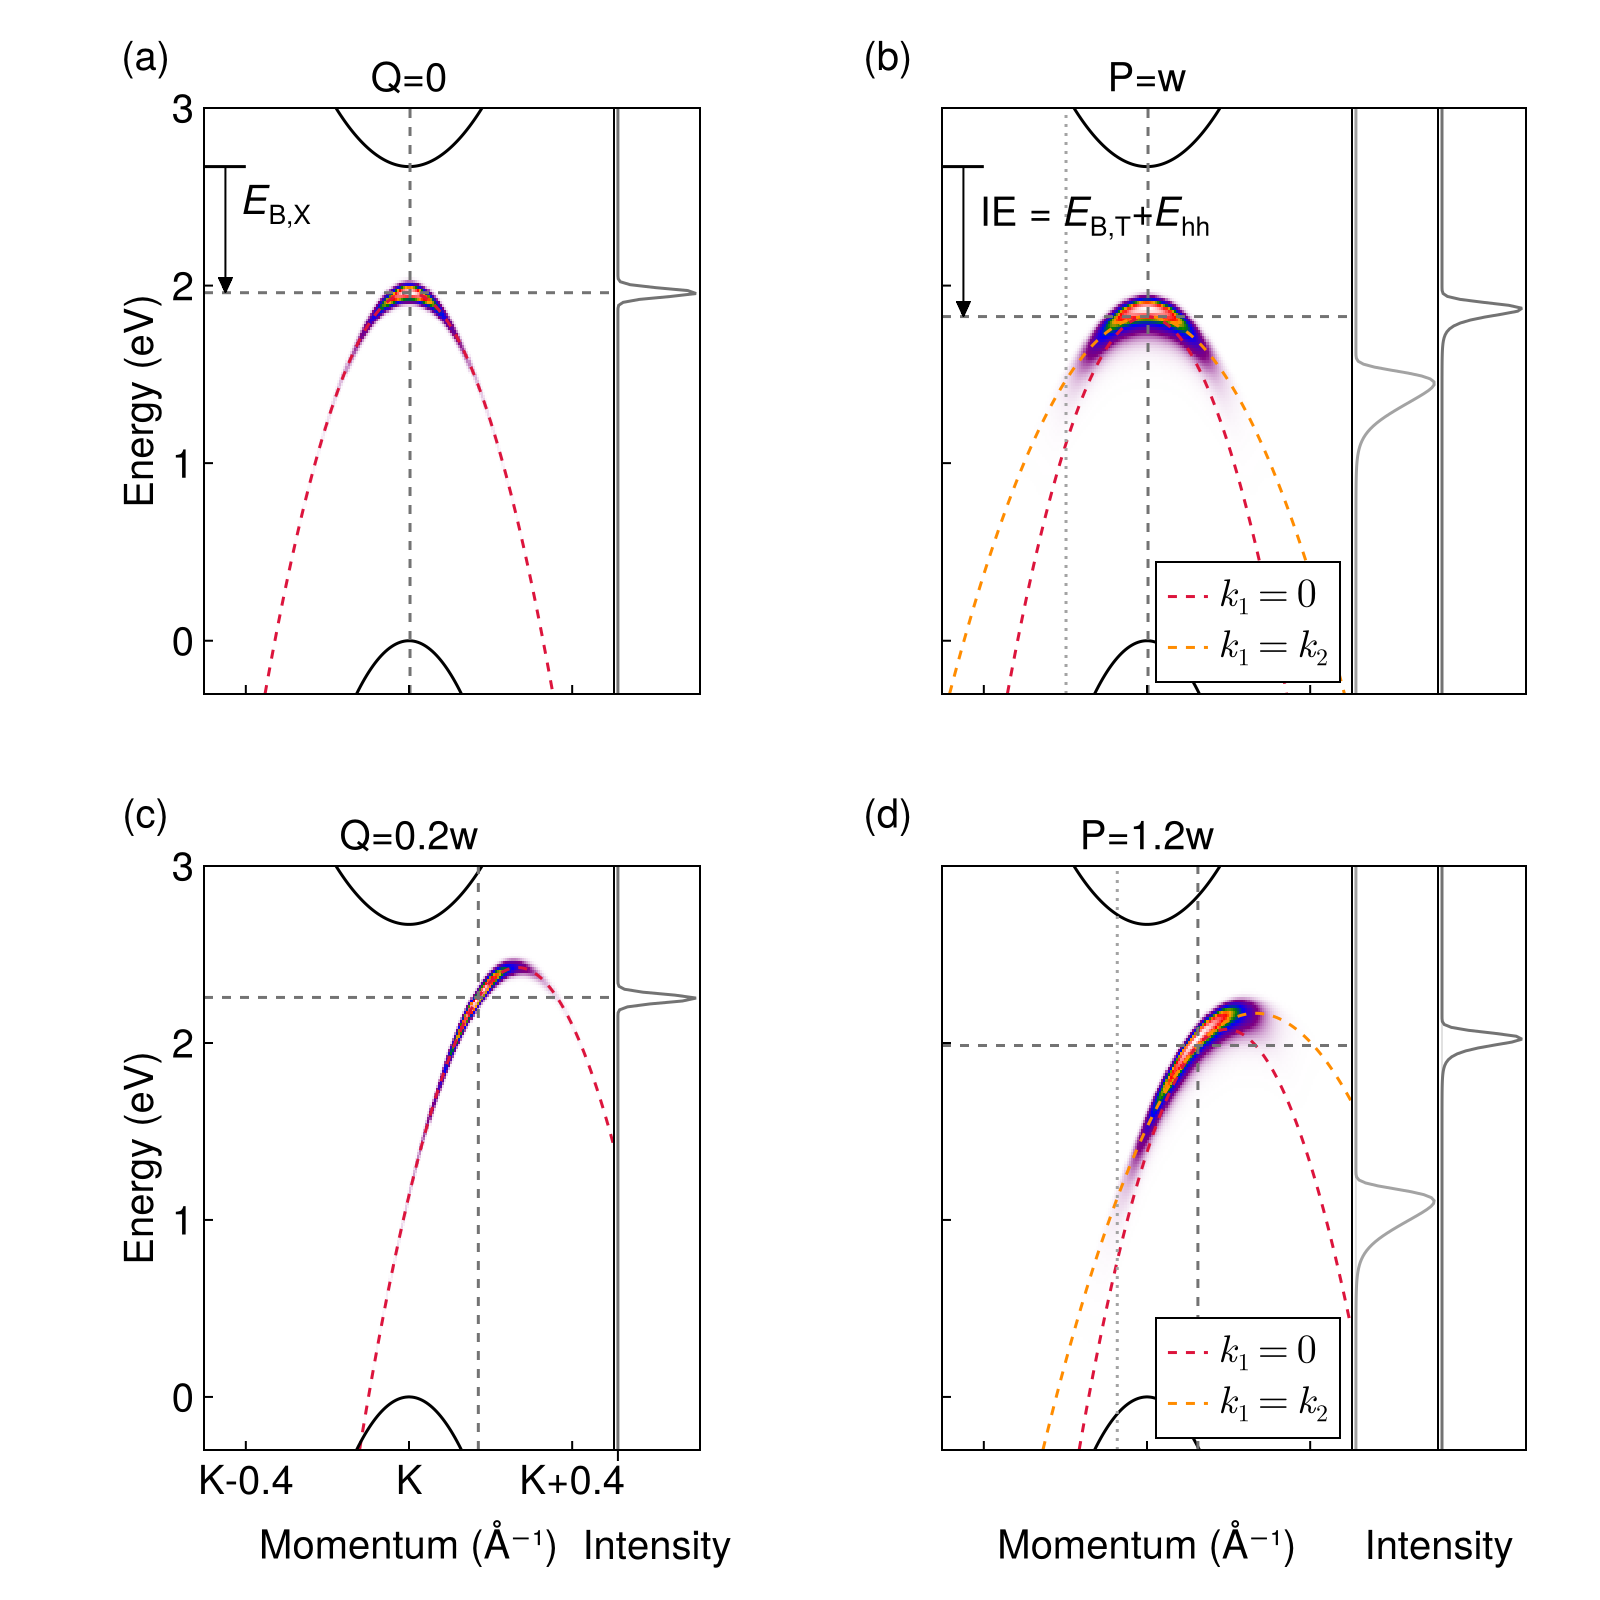
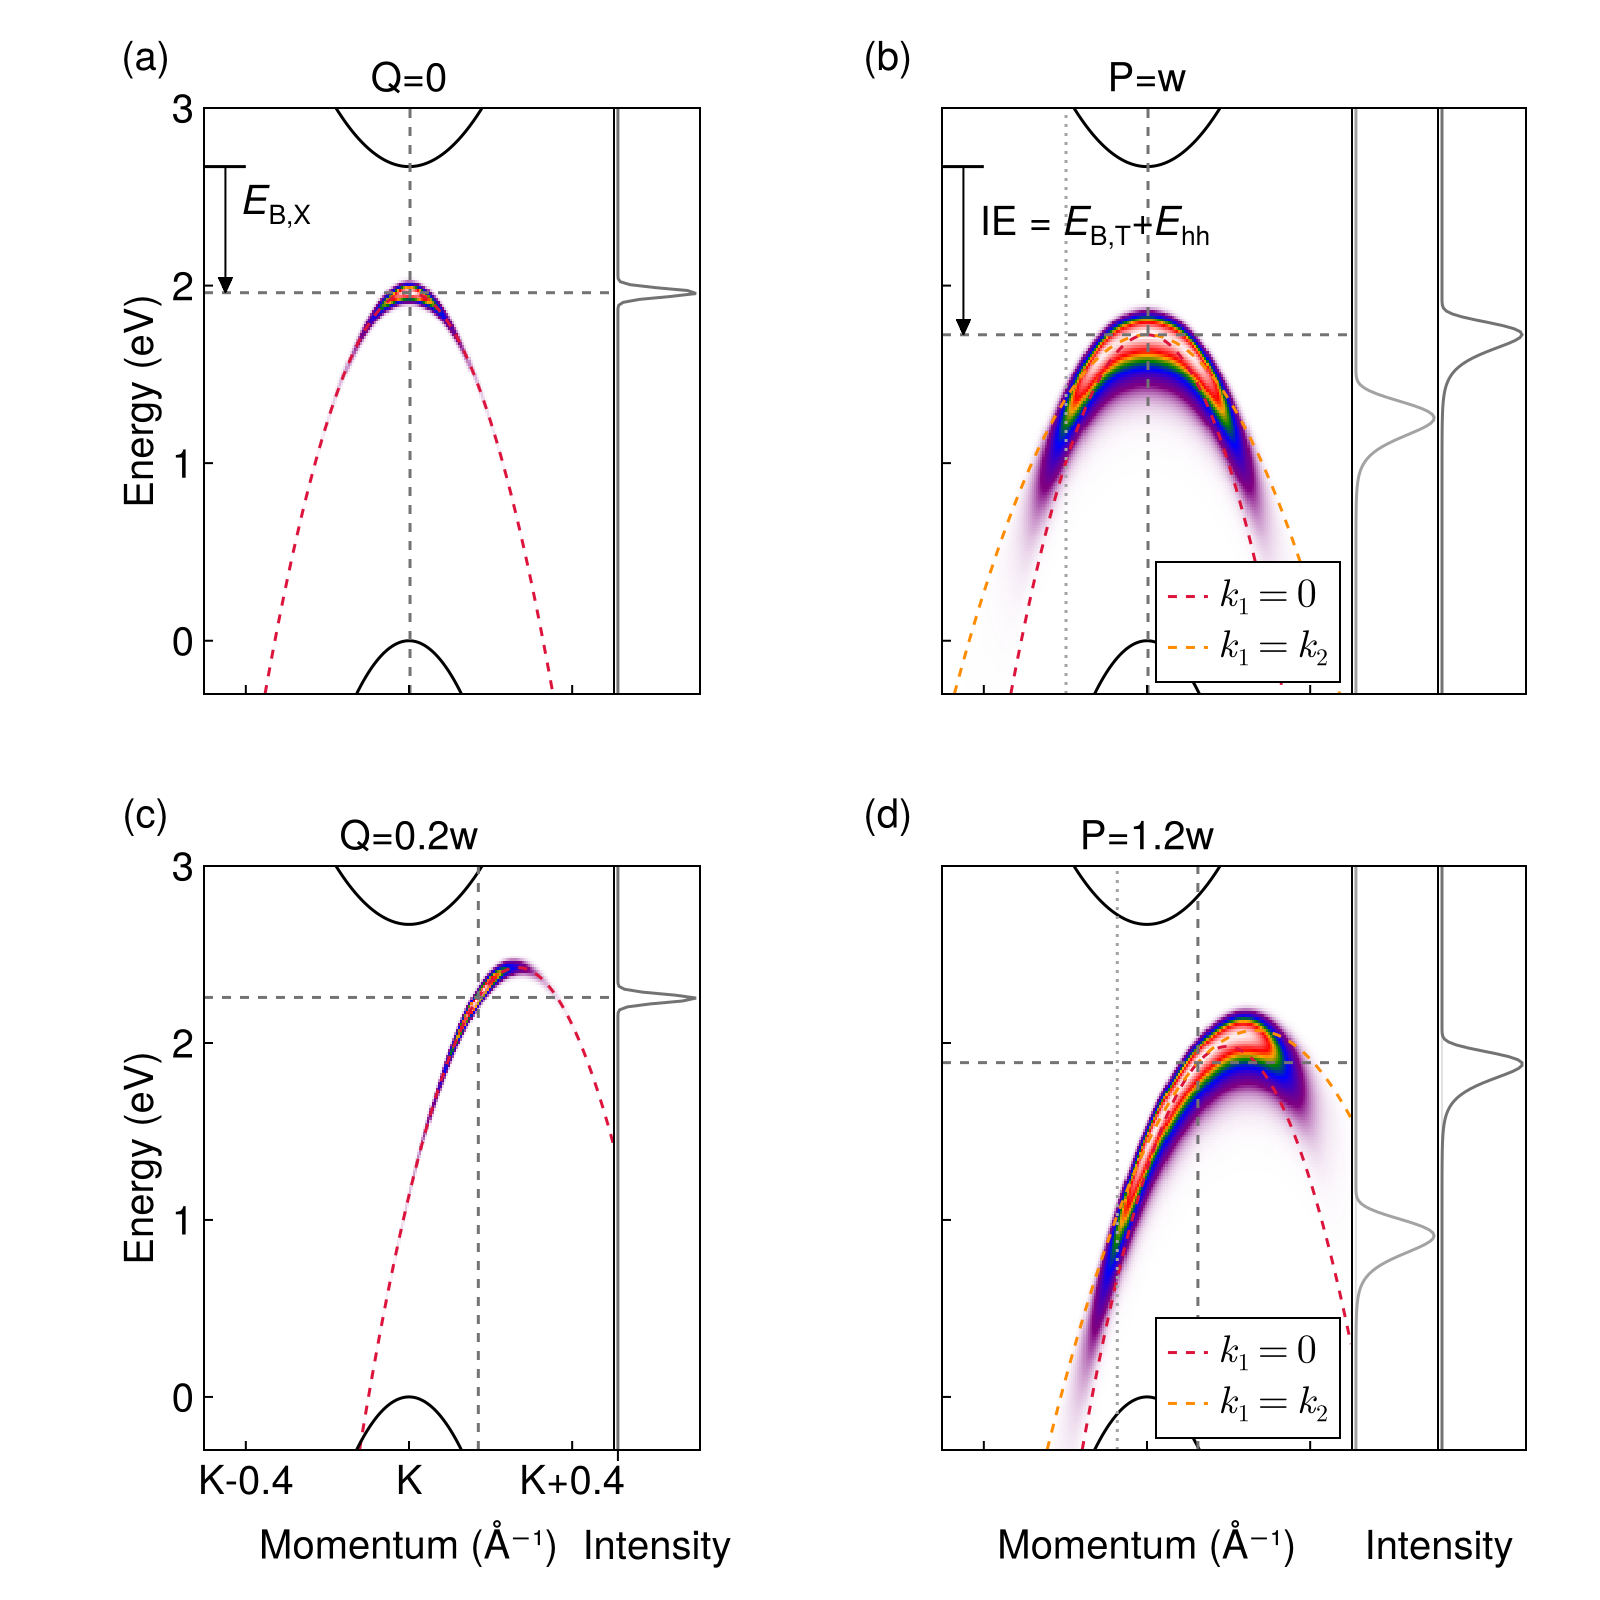
update data

diff --git a/simplified/ehh-no-momentum-display.md b/simplified/ehh-no-momentum-display.md
@@ -35,3 +35,8 @@ which is theoretically wrong although it doesn't make things qualitatively wrong
 Run [`ehh-display-very-compact-2-residue-energy-ionization.jl`](ehh-display-very-compact-2-residue-energy-ionization.jl) to get 
 
 ![](ehh-display-very-compact-2-residue-energy-ionization.png)
+
+If we choose to not use a hard coded Ehh but a $Z(E)$ correction factor to the spectral weight factor to represent how Coulomb repulsion between the holes scatters the two holes to the free-hole-pair final state,
+we can run [`ehh-display-very-compact-2-residue-energy-distribution-ionization.jl`](ehh-display-very-compact-2-residue-energy-distribution-ionization.jl) and get 
+
+![](ehh-display-very-compact-2-residue-energy-distribution-ionization.png)
